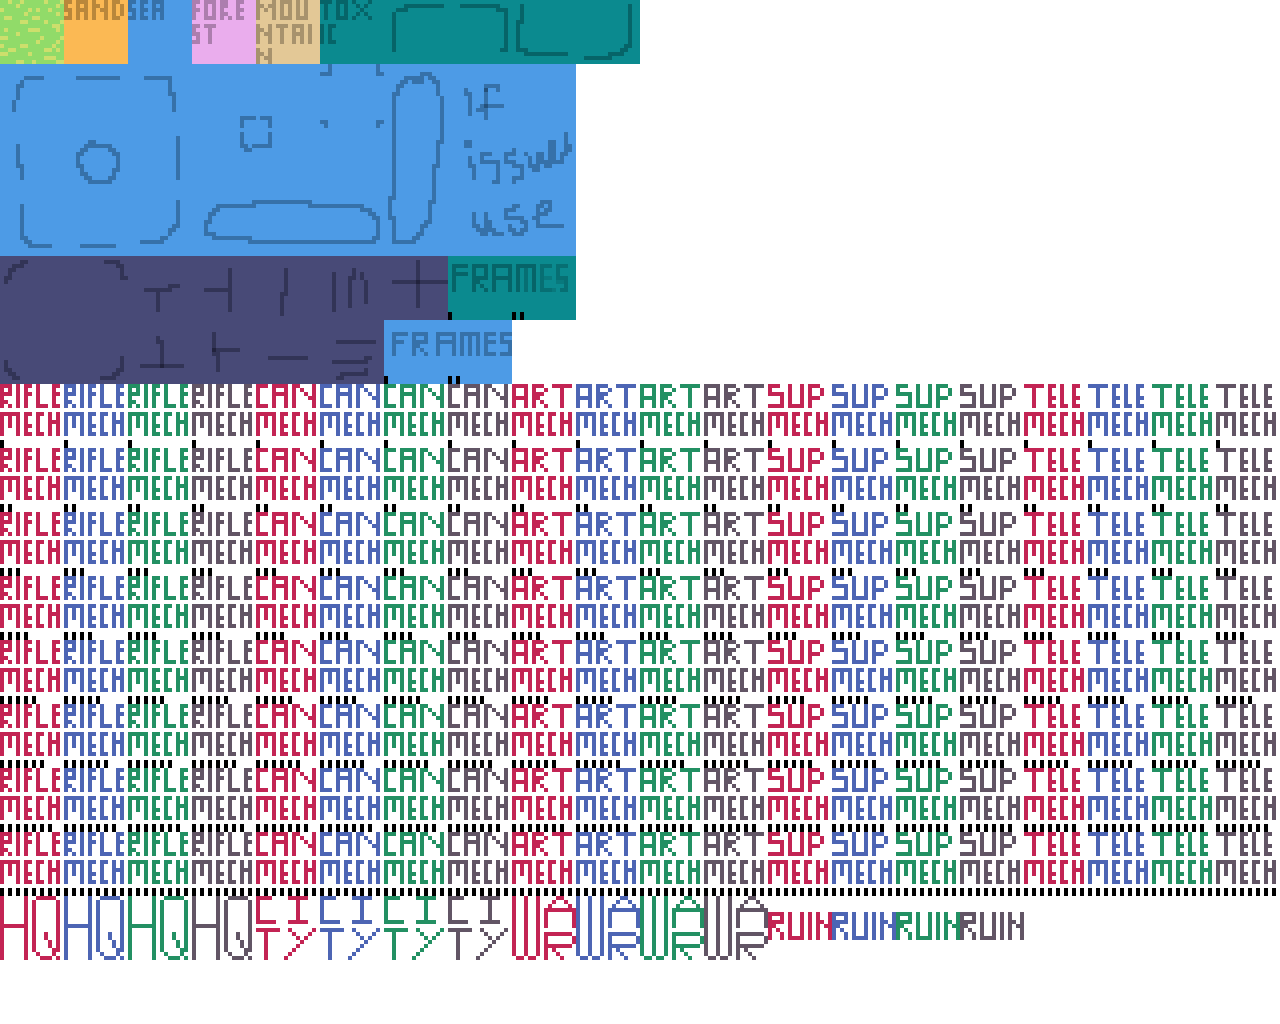
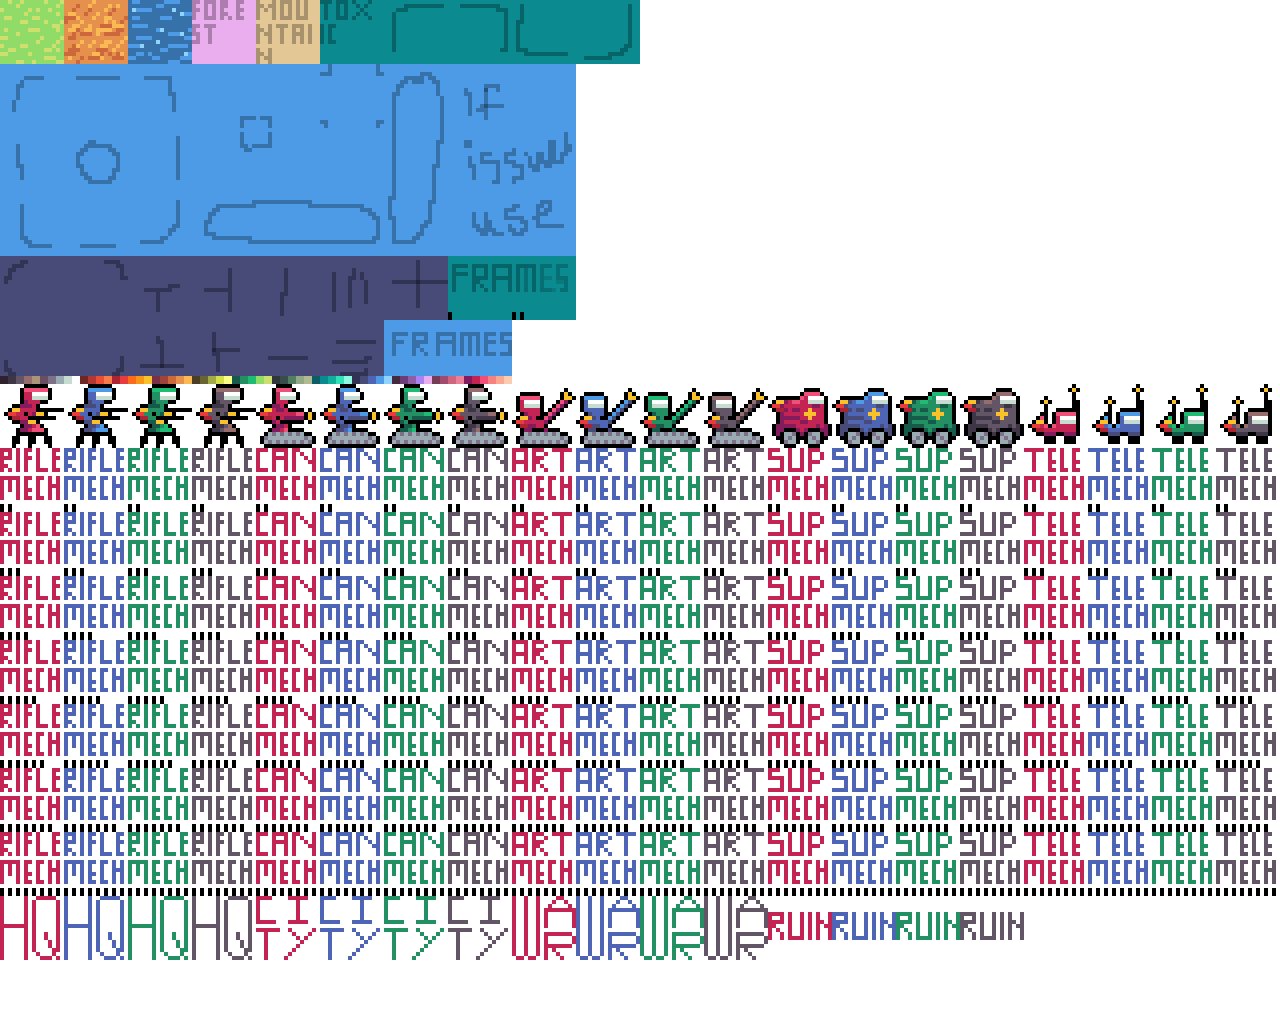
Added 5 Mech art (no animation; WIP) along with sand and sea tile art. Battlescreen displays units according to their health.

Changed region(s): [[0.0, 0.3438, 1.0, 0.4375], [0.0312, 0.0, 0.1562, 0.0625]]

diff --git a/js/ui/battlescreen.js b/js/ui/battlescreen.js
@@ -68,22 +68,35 @@ function battlescreenDraw(deltaTime) {
     //Units
     var prevActiveMapUnitPosition = vec2(activeMapUnit.unit.position.x, activeMapUnit.unit.position.y);
     activeMapUnit.unit.position = vec2(battlescreenActiveUnitX, 0);
-    for (let i = 0; i < 3; i++)
-        activeMapUnit.unit.draw(activeTeamID, vec2(200 * pixelSize, (150 * pixelSize) + (100 * pixelSize * i)),
-            vec2(pixelSize, pixelSize));
-    for (let i = 0; i < 2; i++)
-        activeMapUnit.unit.draw(activeTeamID, vec2(300 * pixelSize, (200 * pixelSize) + (100 * pixelSize * i)),
-            vec2(pixelSize, pixelSize));
+
+    var activeTHp = activeMapUnit.hp;
+    for (let i = 0; i < 3; i++, activeTHp -= 2) {
+        if (activeTHp > 0)
+            activeMapUnit.unit.draw(activeTeamID, vec2(200 * pixelSize, (150 * pixelSize) + (100 * pixelSize * i)),
+                vec2(pixelSize, pixelSize));
+    }
+    for (let i = 0; i < 2; i++, activeTHp -= 2) {
+        if (activeTHp > 0)
+            activeMapUnit.unit.draw(activeTeamID, vec2(300 * pixelSize, (200 * pixelSize) + (100 * pixelSize * i)),
+                vec2(pixelSize, pixelSize));
+    }
+
     activeMapUnit.unit.position = vec2(prevActiveMapUnitPosition.x, prevActiveMapUnitPosition.y);
 
     var prevPassiveMapUnitPosition = vec2(passiveMapUnit.unit.position.x, passiveMapUnit.unit.position.y);
     passiveMapUnit.unit.position = vec2(battlescreenPassiveUnitX, 0);
-    for (let i = 0; i < 3; i++)
-        passiveMapUnit.unit.draw(passiveTeamID, vec2(gameWidth - (200 * pixelSize), (150 * pixelSize) + (100 * pixelSize * i)),
-            vec2(pixelSize, pixelSize));
-    for (let i = 0; i < 2; i++)
-        passiveMapUnit.unit.draw(passiveTeamID, vec2(gameWidth - (300 * pixelSize), (200 * pixelSize) + (100 * pixelSize * i)),
-            vec2(pixelSize, pixelSize));
+
+    var passiveTHp = passiveMapUnit.hp;
+    for (let i = 0; i < 3; i++, passiveTHp -= 2) {
+        if (passiveTHp > 0)
+            passiveMapUnit.unit.draw(passiveTeamID, vec2(gameWidth - (200 * pixelSize), (150 * pixelSize) + (100 * pixelSize * i)),
+                vec2(pixelSize, pixelSize));
+    }
+    for (let i = 0; i < 2; i++, passiveTHp -= 2) {
+        if (passiveTHp > 0)
+            passiveMapUnit.unit.draw(passiveTeamID, vec2(gameWidth - (300 * pixelSize), (200 * pixelSize) + (100 * pixelSize * i)),
+                vec2(pixelSize, pixelSize));
+    }
     passiveMapUnit.unit.position = vec2(prevPassiveMapUnitPosition.x, prevPassiveMapUnitPosition.y);
 
     spritesRenderer.globalAlpha = 1.0;

diff --git a/js/ui/gameplay.js b/js/ui/gameplay.js
@@ -37,28 +37,28 @@ function unitControlsUISetup() {
         new Label(tr(), "", undefined, "white", 0),
         new Button(tr(vec2((gameWidth / 2) - (25 * pixelSize), (gameHeight / 2) - (100 * pixelSize)),
             vec2(50 * pixelSize, 50 * pixelSize)),
-            "#00000066", "#FFFFFFFF", "#000000BB", "#FF000044"));
+            "#00000088", "#FFFFFFFF", "#000000BB", "#FF0000BB"));
     gameplay.push(unitUpBtn);
     unitLeftBtn = new TextButton(tr(vec2((gameWidth / 2) - (100 * pixelSize), (gameHeight / 2) - (25 * pixelSize)),
         vec2(50 * pixelSize, 50 * pixelSize)),
         new Label(tr(), "", undefined, "white", 0),
         new Button(tr(vec2((gameWidth / 2) - (100 * pixelSize), (gameHeight / 2) - (25 * pixelSize)),
             vec2(50 * pixelSize, 50 * pixelSize)),
-            "#00000066", "#FFFFFFFF", "#000000BB", "#FF000044"));
+            "#00000088", "#FFFFFFFF", "#000000BB", "#FF0000BB"));
     gameplay.push(unitLeftBtn);
     unitDownBtn = new TextButton(tr(vec2((gameWidth / 2) - (25 * pixelSize), (gameHeight / 2) + (50 * pixelSize)),
         vec2(50 * pixelSize, 50 * pixelSize)),
         new Label(tr(), "", undefined, "white", 0),
         new Button(tr(vec2((gameWidth / 2) - (25 * pixelSize), (gameHeight / 2) + (50 * pixelSize)),
             vec2(50 * pixelSize, 50 * pixelSize)),
-            "#00000066", "#FFFFFFFF", "#000000BB", "#FF000044"));
+            "#00000088", "#FFFFFFFF", "#000000BB", "#FF0000BB"));
     gameplay.push(unitDownBtn);
     unitRightBtn = new TextButton(tr(vec2((gameWidth / 2) + (50 * pixelSize), (gameHeight / 2) - (25 * pixelSize)),
         vec2(50 * pixelSize, 50 * pixelSize)),
         new Label(tr(), "", undefined, "white", 0),
         new Button(tr(vec2((gameWidth / 2) + (50 * pixelSize), (gameHeight / 2) - (25 * pixelSize)),
             vec2(50 * pixelSize, 50 * pixelSize)),
-            "#00000066", "#FFFFFFFF", "#000000BB", "#FF000044"));
+            "#00000088", "#FFFFFFFF", "#000000BB", "#FF0000BB"));
     gameplay.push(unitRightBtn);
     unitUpBtn.enabled = unitLeftBtn.enabled = unitDownBtn.enabled = unitRightBtn.enabled = false;
 }

diff --git a/js/game/map.js b/js/game/map.js
@@ -52,7 +52,7 @@ function drawSheet(index, pos, sc, tileSize) {
     gameSheet.transform.position = pos;
     gameSheet.transform.scale = sc;
 
-    gameSheet.drawScIn(vec2(index % cols, Math.floor(index / cols)).multiply(vec2(64, 64)), tileSize);
+    gameSheet.drawScIn((vec2(index % cols, Math.floor(index / cols)).multiply(vec2(64, 64))).subtract(vec2(0.001 * pixelSize, 0.001 * pixelSize)), tileSize.add(vec2(0.001 * pixelSize, 0.001 * pixelSize)));
 }
 
 class GameMap {
@@ -123,7 +123,7 @@ class GameMap {
 
                 drawRect(spritesRenderer, posi.subtract(vec2((gameWidth / maxDisplayTilesPerRow) - (8 * pixelSize), (gameWidth / maxDisplayTilesPerRow) - (8 * pixelSize)).divide(vec2(2, 2))),
                     vec2((gameWidth / maxDisplayTilesPerRow) - (8 * pixelSize), (gameWidth / maxDisplayTilesPerRow) - (8 * pixelSize)), true,
-                    (this.cursorTile.x == mapUnit.mapPosition.x + x && this.cursorTile.y == mapUnit.mapPosition.y + y) ? "#00FF0088" : "#FFFF0044");
+                    (this.cursorTile.x == mapUnit.mapPosition.x + x && this.cursorTile.y == mapUnit.mapPosition.y + y) ? "#00FF00BB" : "#FFFF0088");
             }
         }
     }
@@ -182,7 +182,7 @@ class GameMap {
 
                 drawRect(spritesRenderer, posi.subtract(vec2((gameWidth / maxDisplayTilesPerRow) - (8 * pixelSize), (gameWidth / maxDisplayTilesPerRow) - (8 * pixelSize)).divide(vec2(2, 2))),
                     vec2((gameWidth / maxDisplayTilesPerRow) - (8 * pixelSize), (gameWidth / maxDisplayTilesPerRow) - (8 * pixelSize)), true,
-                    (this.cursorTile.x == mapUnit.mapPosition.x + x && this.cursorTile.y == mapUnit.mapPosition.y + y) ? "#FF000088" : "#FF000044");
+                    (this.cursorTile.x == mapUnit.mapPosition.x + x && this.cursorTile.y == mapUnit.mapPosition.y + y) ? "#FF0000BB" : "#FF000088");
             }
         }
     }

diff --git a/js/game/playerManager.js b/js/game/playerManager.js
@@ -25,6 +25,7 @@ class PlayerManager {
 
         this.index++;
         if (this.index >= this.players.length) this.index = 0;
+        updateUnitActionButtons();
     }
 
     draw(offset, index) {
